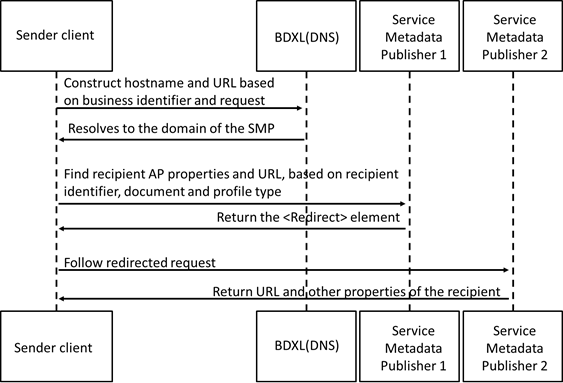
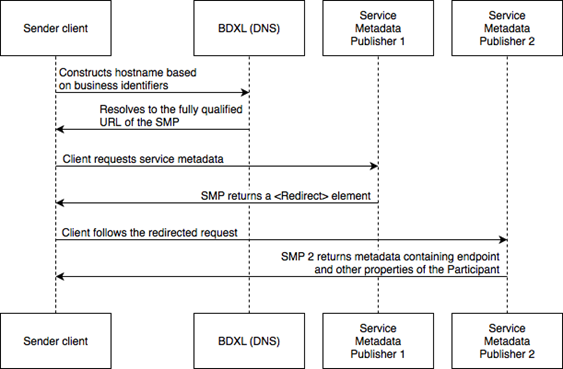
Update SMP

Changed region(s): [[0.0, 0.0, 1.0, 1.0], [0.9059, 0.5962, 0.9361, 0.626], [0.0, 0.0, 0.0302, 0.0298]]

diff --git a/docs/peppol/PeppolDeliveryNetwork.md b/docs/peppol/PeppolDeliveryNetwork.md
@@ -20,7 +20,7 @@ Once connected to the Peppol eDelivery Network (via a Peppol Access Point), publ
 
 All Peppol participating organizations (such as contracting authorities or suppliers) publish their receiving capabilities (delivery addresses, business processes and document types supported, etc.) using a separate service called a Service Metadata Publisher (SMP)
 
-<img src="https://github.com/pondersource/peppol-php/blob/main/docs/pics/smp_1.jpg?raw=true"/>
+<img src="https://github.com/pondersource/peppol-php/blob/main/docs/pics/smp.png?raw=true"/>
 
 * [Peppol Service Metadata Publisher(SMP)](https://docs.peppol.eu/edelivery/smp/ICT-Transport-SMP_Service_Specification-110.pdf)
 
